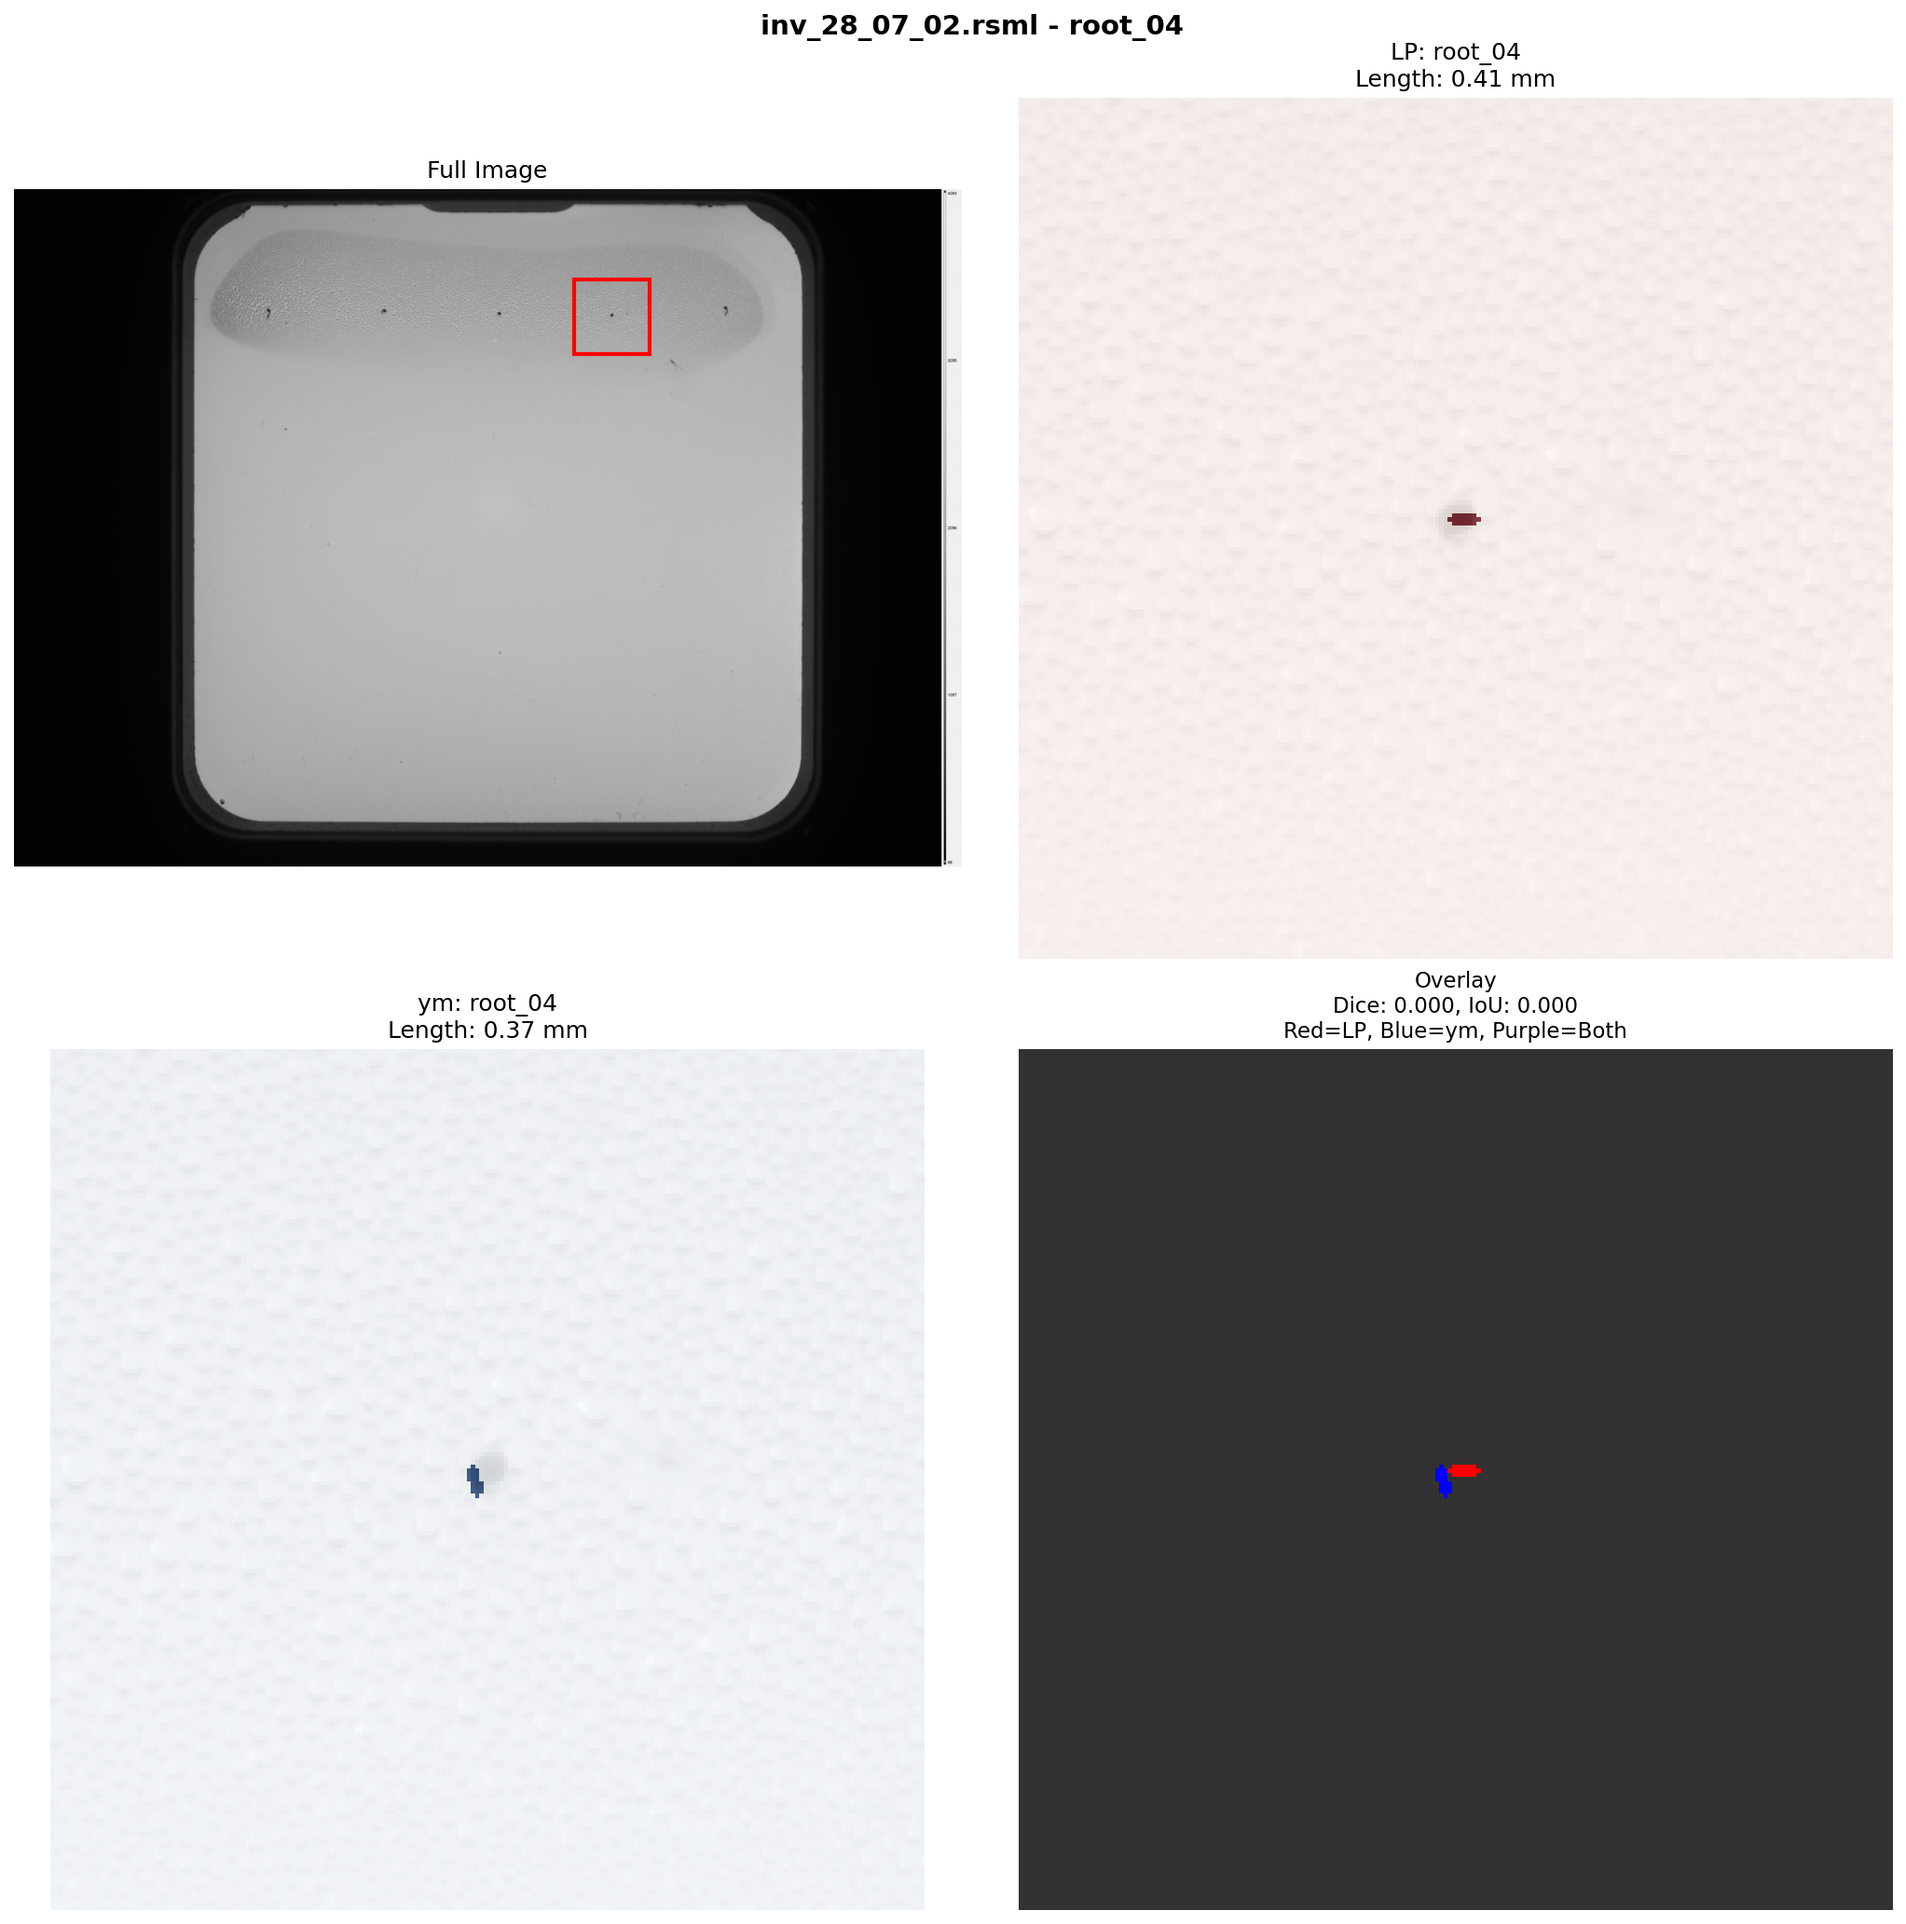
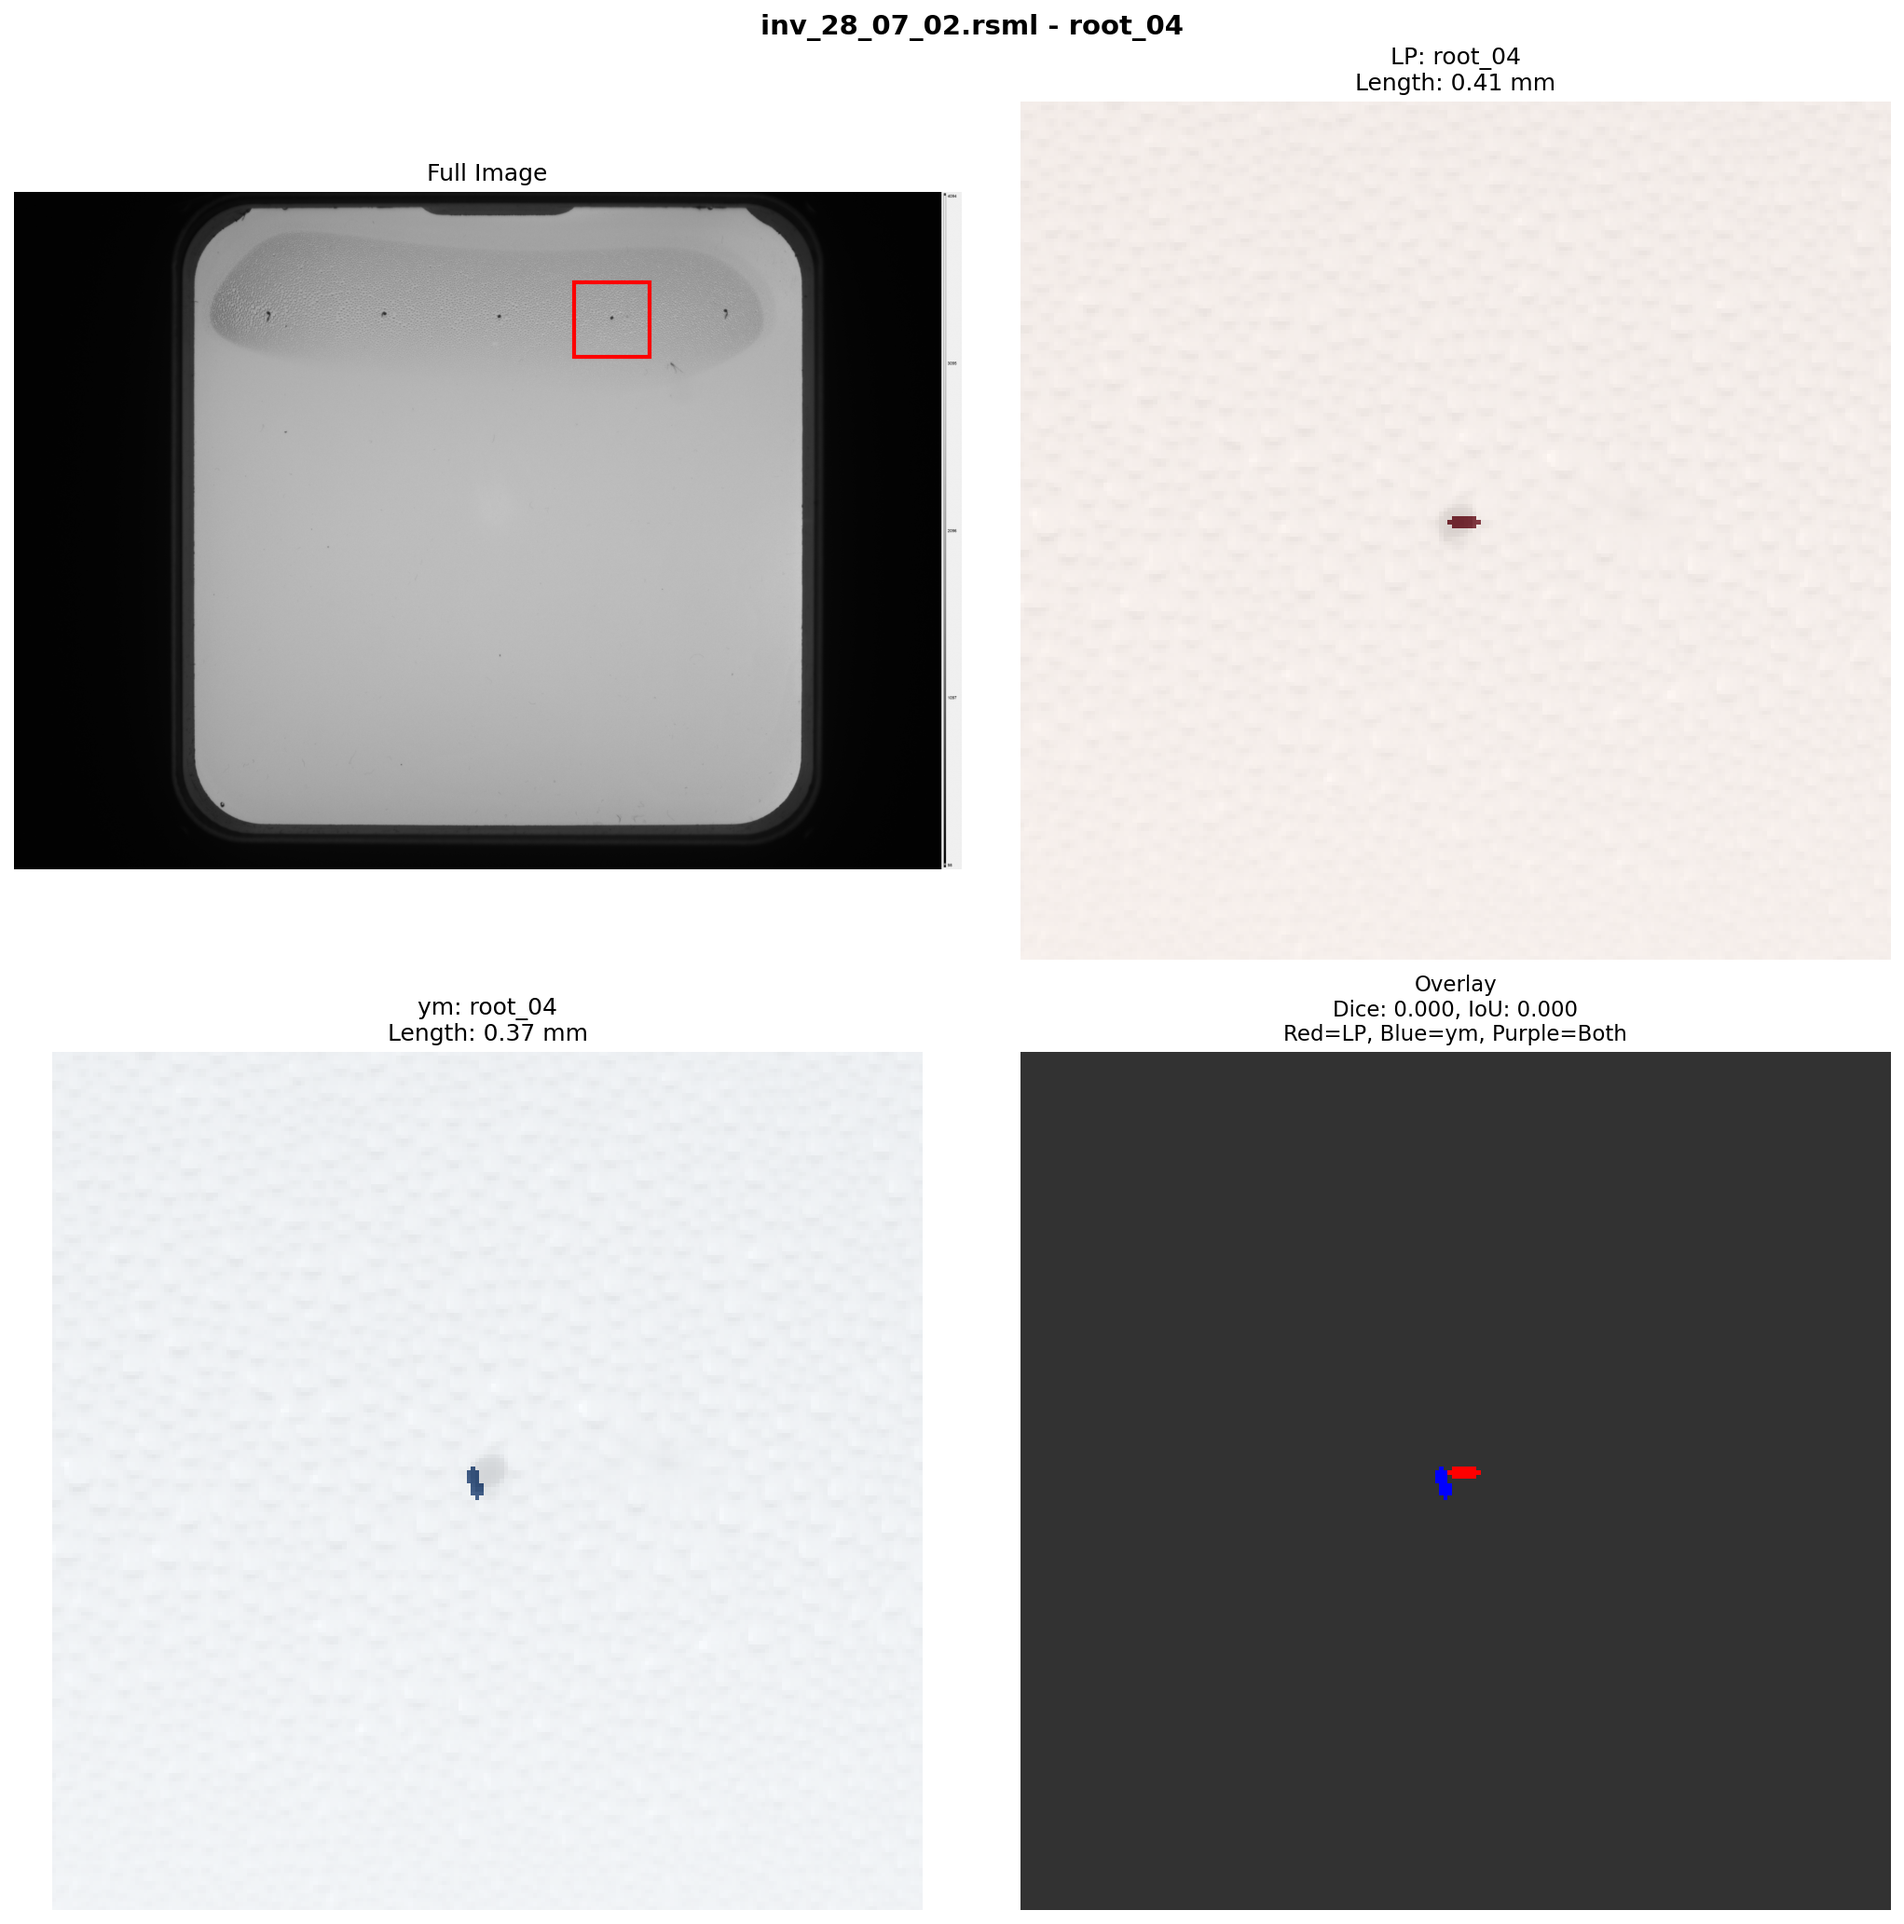
update report

diff --git a/annotation_report/annotation_report.md b/annotation_report/annotation_report.md
@@ -2,18 +2,19 @@
 
 ## Dataset Overview
 
-- **Total annotations**: 513
-- **Annotators**: LP, ac, ym
+- **Total annotations**: 748
+- **Annotators**: LP, ac, ar, ym
 - **Files annotated**: 15
 
 ### Files per Annotator
 
 - **LP**: 7 files
 - **ac**: 14 files
+- **ar**: 15 files
 - **ym**: 15 files
 
-- **Primary roots** (root_01 to root_05): 178
-- **Auxiliary/lateral roots**: 335
+- **Primary roots** (root_01 to root_05): 253
+- **Auxiliary/lateral roots**: 495
 
 ## Validation Issues
 
@@ -25,7 +26,7 @@
 
 ## Inter-Annotator Agreement
 
-**Total pairwise comparisons**: 136
+**Total pairwise comparisons**: 314
 
 ### Intraclass Correlation Coefficient (ICC)
 
@@ -33,11 +34,11 @@
 
 | Metric | Value |
 |--------|-------|
-| ICC | 0.998 |
-| 95% CI | [0.997, 0.999] |
+| ICC | 0.996 |
+| 95% CI | [0.995, 0.998] |
 | Interpretation | Excellent reliability |
 | Items (measurements) | 33 |
-| Raters (annotators) | 3 |
+| Raters (annotators) | 4 |
 
 **Guidelines** (Koo & Li, 2016):
 - < 0.50: Poor reliability
@@ -49,19 +50,19 @@
 
 | Metric | Value |
 |--------|-------|
-| Mean absolute difference | 0.367 mm |
-| Median absolute difference | 0.287 mm |
-| Std deviation | 0.325 mm |
-| Max difference | 1.424 mm |
-| Min difference | 0.003 mm |
+| Mean absolute difference | 0.528 mm |
+| Median absolute difference | 0.373 mm |
+| Std deviation | 0.474 mm |
+| Max difference | 2.099 mm |
+| Min difference | 0.001 mm |
 
 ### SMAPE (Kaggle Competition Metric)
 
 | Metric | Value |
 |--------|-------|
-| Mean SMAPE | 5.267 |
-| Median SMAPE | 1.509 |
-| Std SMAPE | 11.478 |
+| Mean SMAPE | 6.839 |
+| Median SMAPE | 2.241 |
+| Std SMAPE | 15.860 |
 
 *Reference: Kaggle baseline SMAPE was 8.285*
 
@@ -69,10 +70,10 @@
 
 | Metric | Value |
 |--------|-------|
-| Mean Dice coefficient | 0.803 |
-| Median Dice coefficient | 0.821 |
-| Mean IoU | 0.678 |
-| Median IoU | 0.696 |
+| Mean Dice coefficient | 0.801 |
+| Median Dice coefficient | 0.824 |
+| Mean IoU | 0.677 |
+| Median IoU | 0.700 |
 
 ### By Annotator Pair
 
@@ -84,6 +85,14 @@
 - **Dice coefficient**: 0.810 +/- 0.036
 - **IoU**: 0.682 +/- 0.050
 
+#### LP vs ar
+
+- **Comparisons**: 35
+- **Length difference**: 0.733 +/- 0.617 mm
+- **SMAPE**: 8.570 +/- 8.138
+- **Dice coefficient**: 0.773 +/- 0.160
+- **IoU**: 0.649 +/- 0.152
+
 #### LP vs ym
 
 - **Comparisons**: 35
@@ -92,6 +101,14 @@
 - **Dice coefficient**: 0.772 +/- 0.168
 - **IoU**: 0.649 +/- 0.155
 
+#### ac vs ar
+
+- **Comparisons**: 68
+- **Length difference**: 0.707 +/- 0.580 mm
+- **SMAPE**: 4.954 +/- 6.639
+- **Dice coefficient**: 0.804 +/- 0.051
+- **IoU**: 0.675 +/- 0.069
+
 #### ac vs ym
 
 - **Comparisons**: 68
@@ -99,6 +116,14 @@
 - **SMAPE**: 3.986 +/- 8.388
 - **Dice coefficient**: 0.816 +/- 0.040
 - **IoU**: 0.691 +/- 0.055
+
+#### ar vs ym
+
+- **Comparisons**: 75
+- **Length difference**: 0.562 +/- 0.423 mm
+- **SMAPE**: 10.593 +/- 27.014
+- **Dice coefficient**: 0.808 +/- 0.119
+- **IoU**: 0.692 +/- 0.134
 
 ## Cases Requiring Review
 
@@ -121,6 +146,36 @@ The following cases show the worst spatial disagreements (lowest Dice coefficien
 
 ### Problem Case 2
 
+**File**: `inv_28_07_02.rsml` | **Root**: root_04 | **Annotators**: LP vs ar
+
+| Metric | Value |
+|--------|-------|
+| LP length | 0.41 mm |
+| ar length | 0.33 mm |
+| Length difference | 0.086 mm (26.4%) |
+| Dice coefficient | 0.111 |
+| IoU | 0.059 |
+| SMAPE | 23.332 |
+
+![Problem Case 2](problem_cases/problem_02_inv_28_07_02_root_04.png)
+
+### Problem Case 3
+
+**File**: `inv_28_07_02.rsml` | **Root**: root_03 | **Annotators**: LP vs ar
+
+| Metric | Value |
+|--------|-------|
+| LP length | 0.37 mm |
+| ar length | 0.54 mm |
+| Length difference | 0.171 mm (-31.9%) |
+| Dice coefficient | 0.200 |
+| IoU | 0.111 |
+| SMAPE | 37.990 |
+
+![Problem Case 3](problem_cases/problem_03_inv_28_07_02_root_03.png)
+
+### Problem Case 4
+
 **File**: `inv_28_07_02.rsml` | **Root**: root_03 | **Annotators**: LP vs ym
 
 | Metric | Value |
@@ -132,49 +187,19 @@ The following cases show the worst spatial disagreements (lowest Dice coefficien
 | IoU | 0.160 |
 | SMAPE | 103.944 |
 
-![Problem Case 2](problem_cases/problem_02_inv_28_07_02_root_03.png)
-
-### Problem Case 3
-
-**File**: `inv_28_07_02.rsml` | **Root**: root_02 | **Annotators**: LP vs ym
-
-| Metric | Value |
-|--------|-------|
-| LP length | 0.73 mm |
-| ym length | 1.10 mm |
-| Length difference | 0.366 mm (-33.3%) |
-| Dice coefficient | 0.638 |
-| IoU | 0.468 |
-| SMAPE | 39.978 |
-
-![Problem Case 3](problem_cases/problem_03_inv_28_07_02_root_02.png)
-
-### Problem Case 4
-
-**File**: `inv_28_07_03.rsml` | **Root**: root_03 | **Annotators**: ac vs ym
-
-| Metric | Value |
-|--------|-------|
-| ac length | 1.74 mm |
-| ym length | 1.92 mm |
-| Length difference | 0.178 mm (-9.3%) |
-| Dice coefficient | 0.711 |
-| IoU | 0.552 |
-| SMAPE | 9.740 |
-
-![Problem Case 4](problem_cases/problem_04_inv_28_07_03_root_03.png)
+![Problem Case 4](problem_cases/problem_04_inv_28_07_02_root_03.png)
 
 ### Problem Case 5
 
-**File**: `inv_28_07_03.rsml` | **Root**: root_03 | **Annotators**: LP vs ym
+**File**: `inv_28_07_02.rsml` | **Root**: root_04 | **Annotators**: ar vs ym
 
 | Metric | Value |
 |--------|-------|
-| LP length | 1.87 mm |
-| ym length | 1.92 mm |
-| Length difference | 0.051 mm (-2.7%) |
-| Dice coefficient | 0.714 |
-| IoU | 0.556 |
-| SMAPE | 2.711 |
+| ar length | 0.33 mm |
+| ym length | 0.37 mm |
+| Length difference | 0.044 mm (-11.8%) |
+| Dice coefficient | 0.278 |
+| IoU | 0.161 |
+| SMAPE | 12.589 |
 
-![Problem Case 5](problem_cases/problem_05_inv_28_07_03_root_03.png)
+![Problem Case 5](problem_cases/problem_05_inv_28_07_02_root_04.png)
